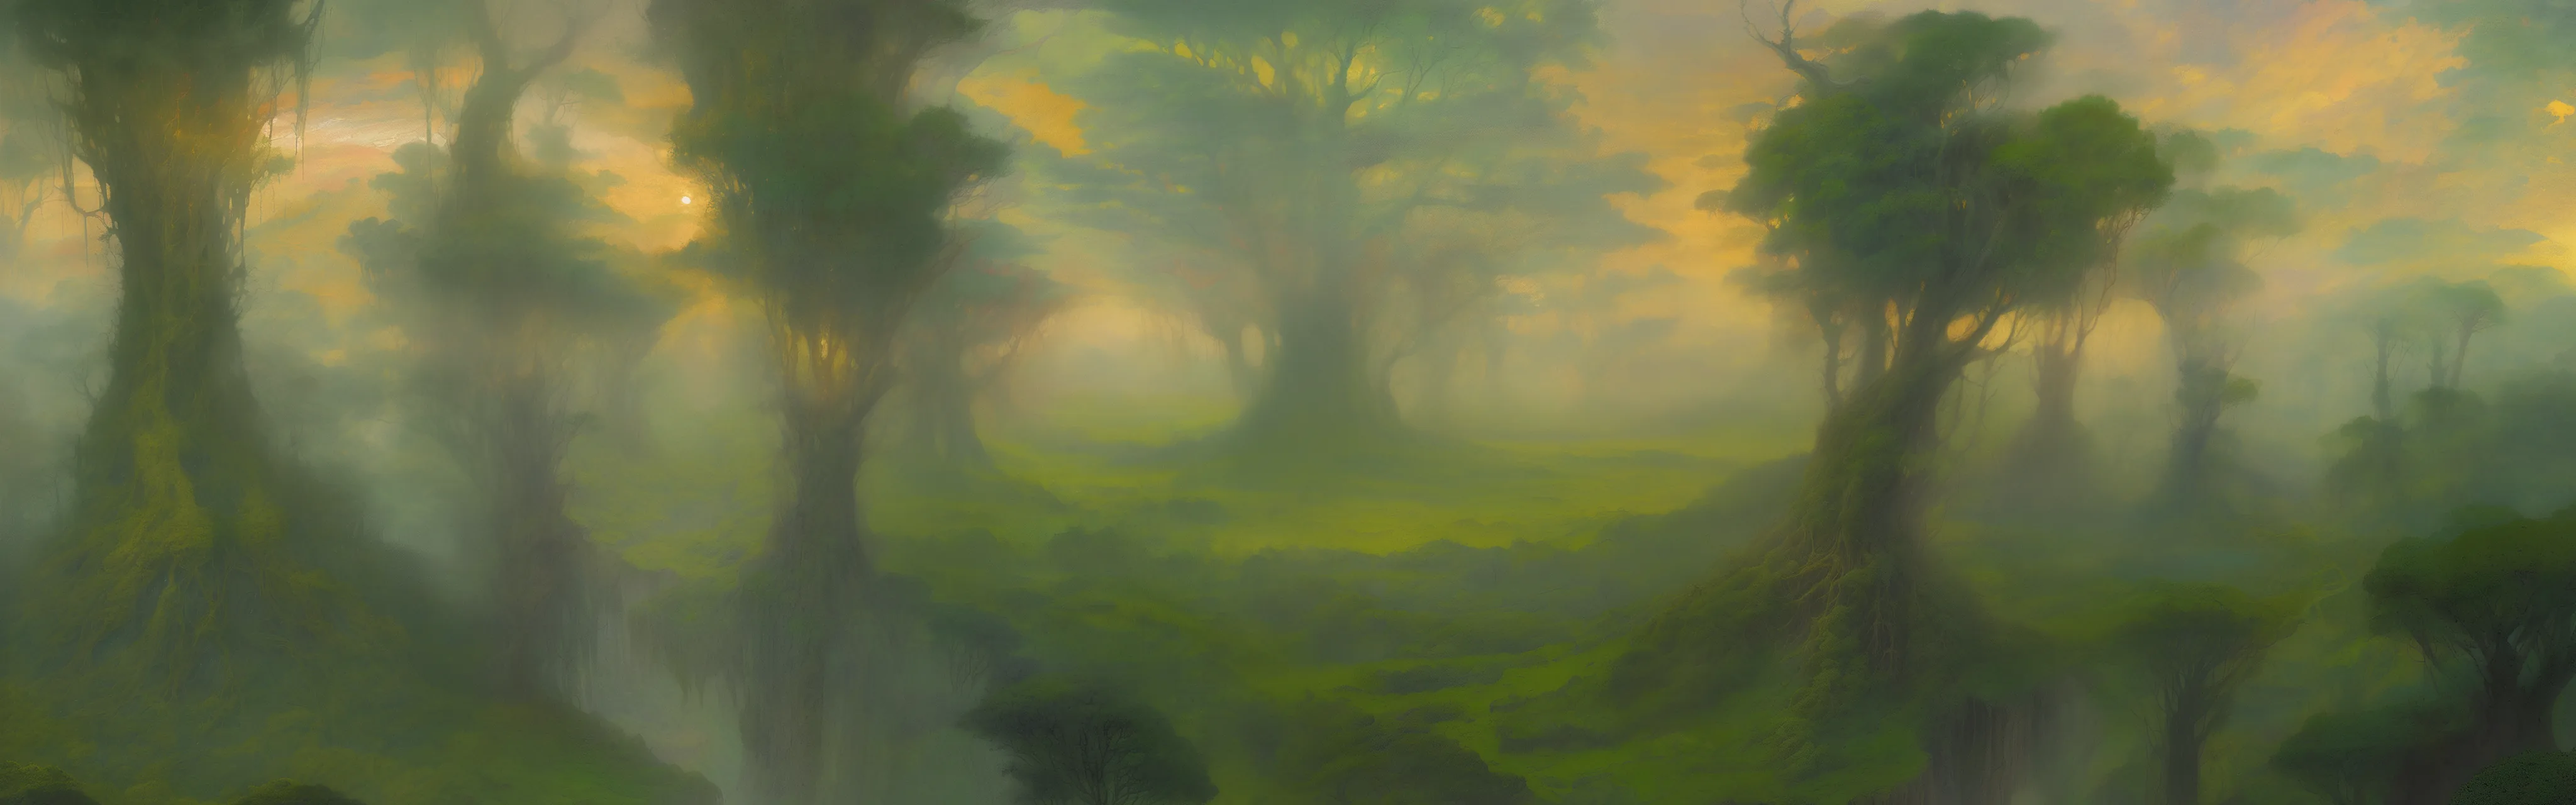
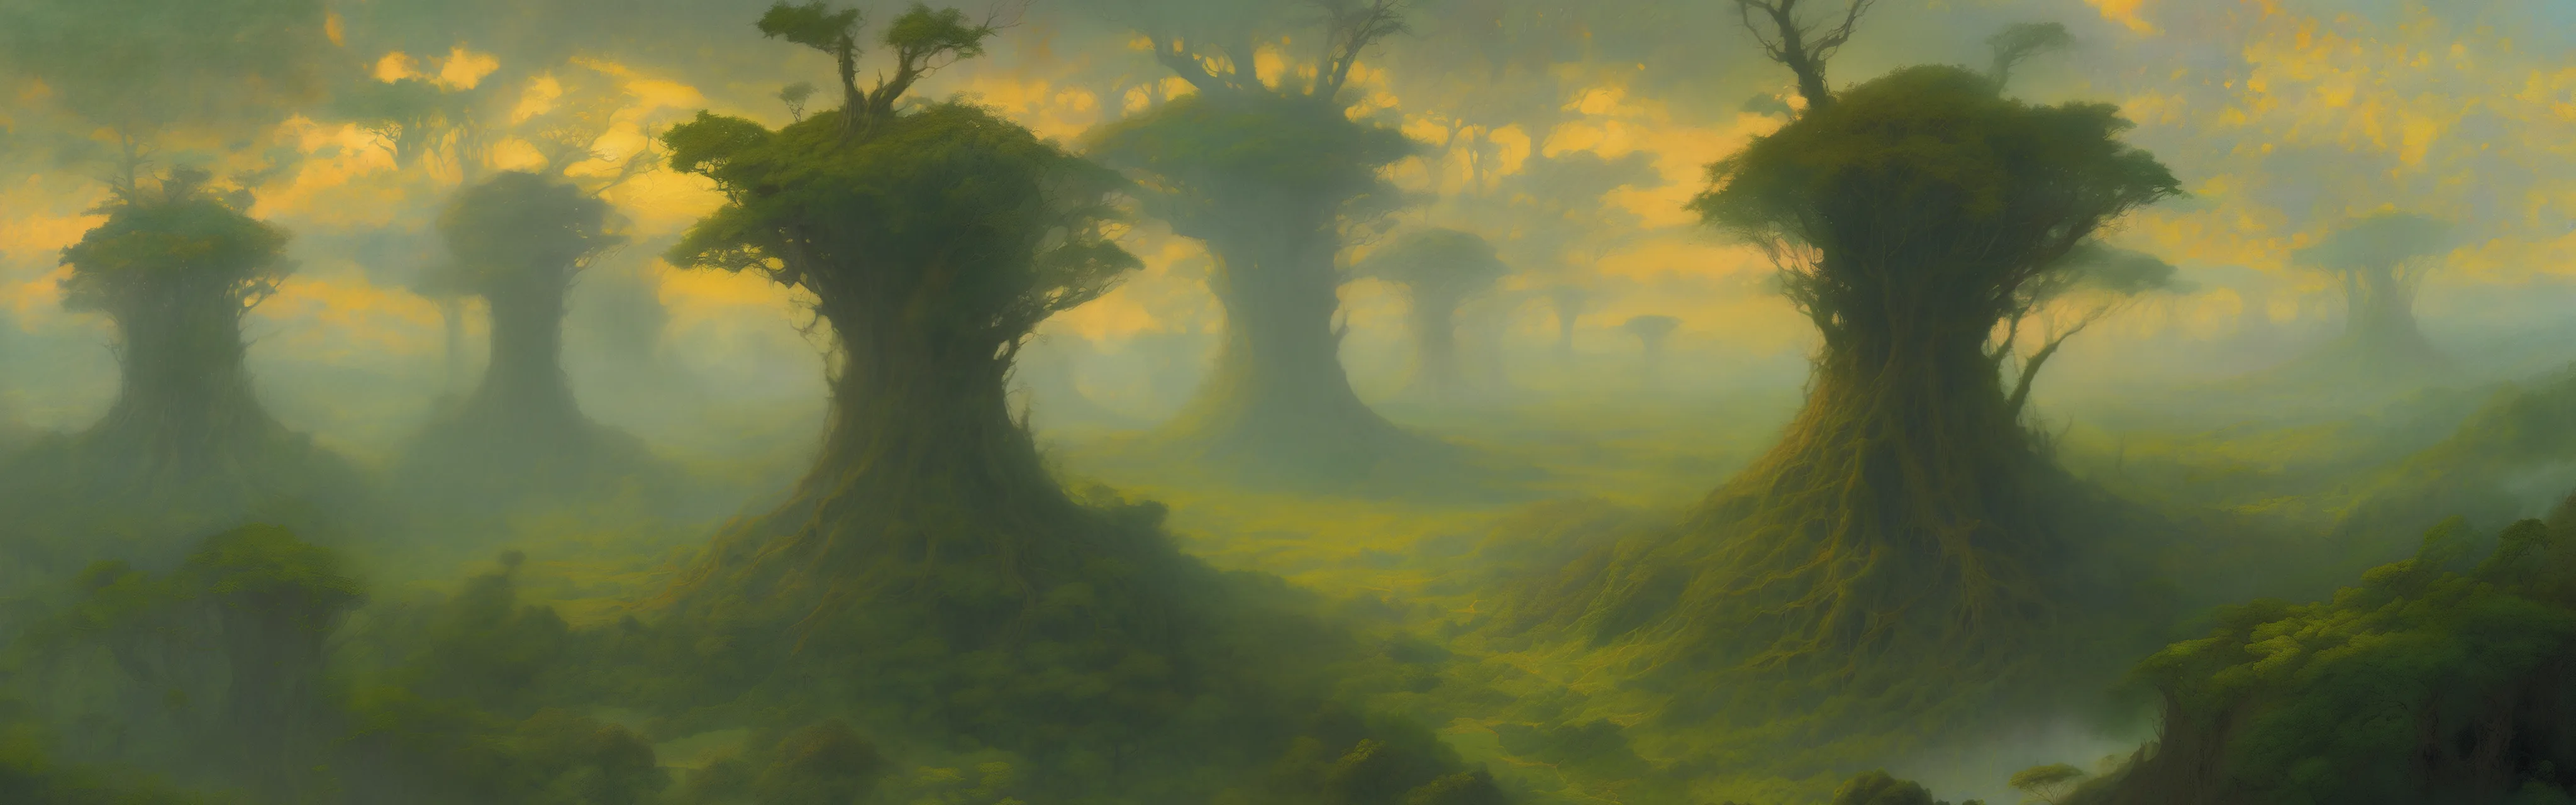
pack-v6.1: forest stages 3 and 5 re-painted, no longer dissolved in haze
The pack-v6 forest in-betweens (s3, s5) were soft: edge contrast 0.28 / 0.29 against
0.32-0.64 for their neighbours. Re-run at img2img 0.58 / 0.68 (averaged prompt embeddings,
three seeds each) and from the sharper anchor at 0.50; picks s3 = 0.68 (ec 0.446),
s5 = 0.58 master (ec 0.486), both inside +-25% of their neighbours' mean. Only forest's
s3/s5 files and their byte counts in scenery.json change.

diff --git a/pack/README.md b/pack/README.md
@@ -9,3 +9,17 @@ averaged, three seeds, the pipeline's 2× tiled detail pass on the pick, then th
 each with @2x) and a half-way front layer. Made on the owner's GTX 1080 overnight 2026-10-12/13 by
 `~/scenery-packs/tools/ladder_chain.sh` (see `pack-v6-ladder/SUMMARY.md` there). Spec 1.6 (`growth` defaults).
 No web images, card art or private files were used as inputs. Licence as before.
+
+## pack v6.1 (2026-10-13): forest stages 3 and 5 re-painted
+
+Pack v6's two new forest pictures came out too soft — the trees dissolved into haze (edge contrast 0.28 and 0.29,
+measured as the mean |horizontal luma gradient| on the half@2x centre 1024×512 crop, against 0.32–0.64 for their
+neighbours). Only `forest/s3-*`, `forest/s5-*`, `forest/front-s3*`, `forest/front-s5*` and their byte counts in
+`scenery.json` changed; the other four biomes and every anchor picture are byte-for-byte pack v6.
+
+The forest candidates were re-run with the same averaged prompt embeddings at img2img strength 0.58 and 0.68 (three
+seeds each, from the anchors' 50/50 blend), plus a variant at 0.50 starting from the sharper anchor (v5's s3).
+Picked by that edge contrast (within ±25% of the two neighbours' mean) and by eye:
+s3 = master 0.68 (seed 8425), phone 0.68 (seed 11523), shipped edge contrast 0.446 (neighbours 0.318 / 0.637);
+s5 = master 0.58 (seed 8436), phone 0.68 (seed 9530), shipped edge contrast 0.486 (neighbours 0.637 / 0.616).
+Then the pipeline's own detail pass, cuts and front layers, unchanged.
